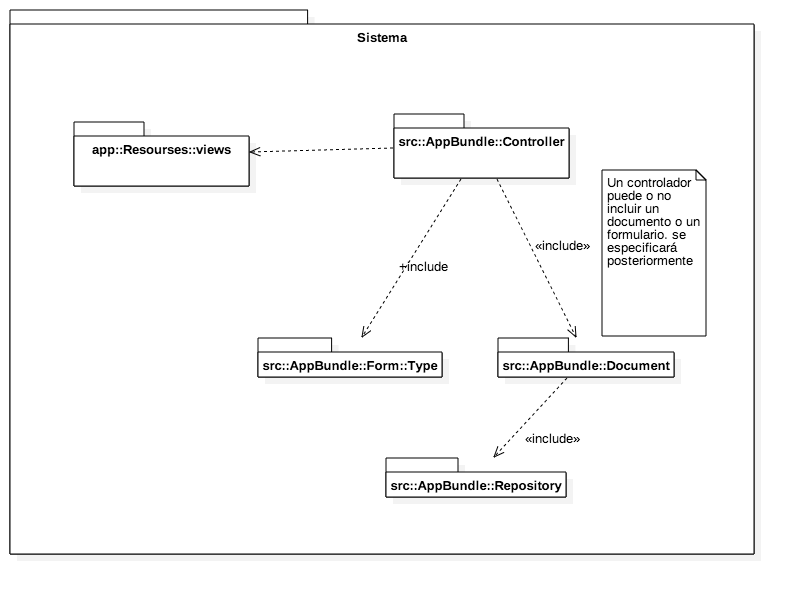
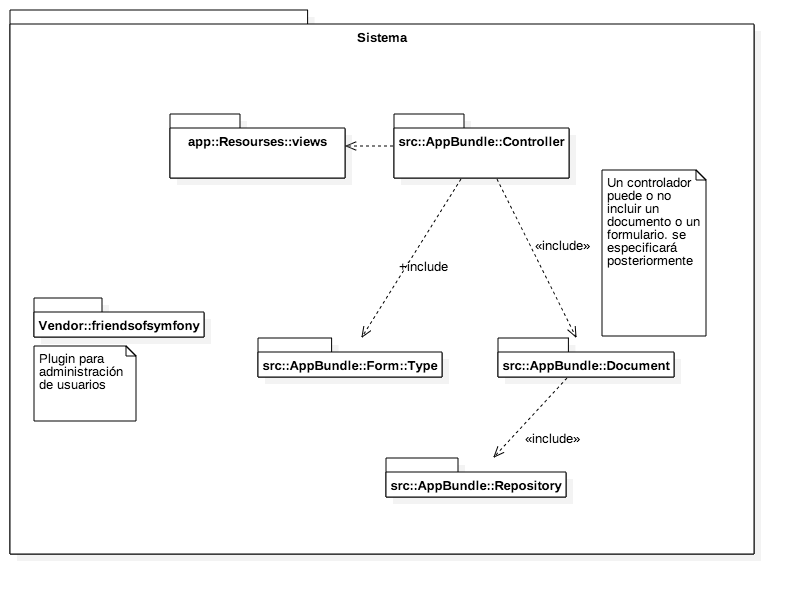
terminando estructura estatica

Changed region(s): [[0.0907, 0.1818, 0.4836, 0.3333], [0.0302, 0.4848, 0.272, 0.6667], [0.0605, 0.697, 0.1814, 0.7273]]

diff --git a/documento_disenio/ModeloEstatico/modeloEstatico.tex b/documento_disenio/ModeloEstatico/modeloEstatico.tex
@@ -11,68 +11,340 @@
 			\includegraphics[width=1\textwidth]{images/logico32}
 		\caption{Estructura Más especifica del sistema}
 	\end{figure}
+	
+	\begin{figure}[htbp!]
+		\centering
+			\includegraphics[width=1\textwidth]{images/logico33}
+		\caption{Estructura de las vistas}
+	\end{figure}
 	\newpage
-	\section{app::Resourses::views}	
+	\section{app::Resourses::views}
+		\subsection{Cajero}
+		\begin{itemize}
+			\item Regjstrar
+			\begin{itemize}
+				\item parts
+				\begin{itemize}
+					\item cajeroTabla.html.twig
+				\end{itemize}
+				\item registrarCajero.html.twig
+			\end{itemize}
+			\item Inventario
+			\begin{itemize}
+				\item modificarInventario.html.twig
+				\item consultarInventario.html.twig
+			\end{itemize}
+			\item Pagos
+			\begin{itemize}
+				\item pagoFarmacia.html.twig
+				\item pagoCita.html.twig
+			\end{itemize}
+		\end{itemize}
+		\subsection{Enfernera}
+		\begin{itemize}
+		\item Registrar
+		\begin{itemize}
+		\item registrarEnfermera.html.twig
+		\item registrarPaciente.html.twig
+		\item parts
+			\begin{itemize}
+				\item enfermeraTabla.html.twig
+			\end{itemize}
+		\end{itemize}
+		\item citas 
+			\begin{itemize}
+				\item agendarCita.html.twig
+				\item consultarCita.html.twig
+				\item cancerlarCita.html.twig
+			\end{itemize}
+		\end{itemize}
+		\subsection{Gerente}
+		\begin{itemize}
+			\item registrar
+			\begin{itemize}
+				\item parts 
+				\begin{itemize}
+				\item gerenteTabla.html.twig
+				\end{itemize}
+				\item registrarPaciente.html.twig
+			\end{itemize}
+			\item medicos 
+			\begin{itemize}
+			\item modifIcarHorarioMedico.html.twig
+			\item registrarMedico.html.twig
+			\item consultarMedicos.html.twig
+			\end{itemize}
+			\item actividad
+			\begin{itemize}
+				\item consultarCitasRealizadas.html.twig
+				\item consultarVentasRealizadas.html.twig
+			\end{itemize}
+		\end{itemize}
+		\subsection{Medico}
+		\begin{itemize}
+			\item registrar
+			\begin{itemize}
+			\item registrarMedico.html.twig
+			\item parts
+			\begin{itemize}
+				\item medicoTabla.html.twig
+			\end{itemize}
+			\end{itemize}
+			\item Expediente 
+			\begin{itemize}
+				\item crearExpediente.html.twig
+				\item consultarExpediente.html.twig
+			\end{itemize}
+			\item citas
+			\begin{itemize}
+				\item consultarCitas.html.twig
+				\item cancelarCitas.html.twig
+			\end{itemize}
+			\item consulta
+			\begin{itemize}
+				\item crearTratamiento.html.twig				
+			\end{itemize}
+		\end{itemize}
+		\subsection{Paciente}
+		\begin{itemize}
+			\item cita
+			\begin{itemize}
+				\item agendarCita.html.twig
+				\item cancelarCita.html.twig
+			\end{itemize}
+			\item expediente
+			\begin{itemize}
+				\item consultarExpediente.html.twig
+			\end{itemize}
+			\item registrar
+			\begin{itemize}
+			\item registrarPaciente.html.twig
+			\end{itemize}
+			
+		\end{itemize}
+		\subsection{Producto}	
+			\begin{itemize}
+			\item parts
+			\begin{itemize}
+				\item productosTabla.html.twig
+			\end{itemize}
+			\item registrarProducto.html.twig
+			\end{itemize}
+
+		\subsection{default}
+		\begin{itemize}
+			\item index.html.twig
+		\end{itemize}
+		\subsection{Login}
+		\begin{itemize}
+			\item login.html.twig
+		\end{itemize}
+		\subsection{Layout}
+		\begin{itemize}
+			\item menuLeft.html.twig
+			\item menuTop.html.twig
+		\end{itemize}
 	\section{src::AppBundle::Controller}
 	\subsection{Gerente}
+	\begin{itemize}
+		\item GerenteController.php
+	\end{itemize}
 	\subsection{Enfermera}
+	\begin{itemize}
+		\item EnfermeraController.php
+	\end{itemize}
 	\subsection{Paciente}
+	\begin{itemize}
+		\item PacienteController.php
+	\end{itemize}
 	\subsection{Medico}
+	\begin{itemize}
+		\item MedicoController.php
+	\end{itemize}
 	\subsection{Cajero}
+	\begin{itemize}
+		\item CajeroController.php
+	\end{itemize}
 	\subsection{Index}
+	\begin{itemize}
+		\item IndexController.php
+	\end{itemize}
 	\subsection{Login}
+	\begin{itemize}
+		\item LoginController.php
+	\end{itemize}
 	\subsection{Producto}
+	\begin{itemize}
+		\item ProductoController.php
+	\end{itemize}
 	\section{src::AppBundle::Controller::Api}
 		\subsection{Cajero}
+		\begin{itemize}
+		\item CajeroController.php
+		\end{itemize}
 		\subsection{Enfermera}
+		\begin{itemize}
+		\item EnfermeraController.php
+		\end{itemize}
 		\subsection{Gerente}
+		\begin{itemize}
+		\item GerenteController.php
+		\end{itemize}
 		\subsection{Medico}
+		\begin{itemize}
+		\item MedicoController.php
+		\end{itemize}
 		\subsection{Producto}
+		\begin{itemize}
+		\item ProductoController.php
+		\end{itemize}
 	\section{src::AppBundle::Form::Type}
 		\subsection{Paciente}
+		\begin{itemize}
+		\item CitaType.php
+		\item PacienteType.php
+		\end{itemize}
 		\subsection{Index}
 		\subsection{Cajero}
+		\begin{itemize}
+		\item CajeroRegistrationType.php
+		\item CajeroType.php
+		\end{itemize}
 		\subsection{Producto}
+		\begin{itemize}
+		\item ProductoType.php
+		\end{itemize}
 		\subsection{Login}
 		\subsection{Medico}
+		\begin{itemize}
+		\item MedicoRegistrationType.php
+		\item MedicoType.php
+		\end{itemize}
+		
 		\subsection{Gerente}
+		\begin{itemize}
+		\item GerenteRegistrationType.php
+		\item GerenteType.php
+		\end{itemize}
+		
 		\subsection{Enfermera}
+		\begin{itemize}
+		\item EnfermeraRegistrationType.php
+		\item EnfermeraType.php
+		\end{itemize}
+		
 		\subsection{Expediente}
 		\subsection{Consulta}
 		\subsection{Medicamento}
 		\subsection{Pago}
 		\subsection{User}
+		\begin{itemize}
+		\item RegistrationType.php
+		\end{itemize}
 	\newpage	
 	\section{src::AppBundle::Document}
 	
 	\subsection{Paciente}
-		\subsection{Index}
 		\subsection{Cajero}
+		\begin{itemize}
+			\item Cajero.php
+		\end{itemize}				
+		
 		\subsection{Producto}
-		\subsection{Login}
+		\begin{itemize}
+			\item Producto.php
+		\end{itemize}				
+		
 		\subsection{Medico}
+		\begin{itemize}
+			\item Medico.php
+		\end{itemize}				
+		
 		\subsection{Gerente}
+		\begin{itemize}
+			\item Gerente.php
+		\end{itemize}				
+		
 		\subsection{Enfermera}
+		\begin{itemize}
+			\item Enfermera.php
+		\end{itemize}				
+		
 		\subsection{Expediente}
+		\begin{itemize}
+			\item Alergia.php
+			\item AntecedenteFamiliar.php
+			\item AntecedentePersonal.php
+			\item Anticonceptivo.php
+			\item Cirugia.php
+			\item Embarazo.php
+			\item Enfermedad.php
+			\item Expediente.php
+			\item Mastografía.php
+			\item Papanicolaou.php
+		\end{itemize}				
+		
 		\subsection{Consulta}
+		\begin{itemize}
+			\item Consulta.php
+			\item Tratamiento.php
+			\item TratamientoMedicamento.php
+			\item TratamientoRecomendacion.php
+		\end{itemize}
 		\subsection{Medicamento}
+		\begin{itemize}
+			\item Activo.php
+			\item Medicamento.php
+		\end{itemize}
 		\subsection{Pago}
+		\begin{itemize}
+			\item Pago.php
+		\end{itemize}
 		\subsection{User}
+		\begin{itemize}
+			\item User.php
+		\end{itemize}
 		
 \section{src::AppBundle::Repository}
 	
 	\subsection{Paciente}
-		\subsection{Index}
 		\subsection{Cajero}
+		\begin{itemize}
+			\item CajeroRepository.php
+		\end{itemize}
 		\subsection{Producto}
-		\subsection{Login}
+		\begin{itemize}
+			\item ProductoRepository.php
+		\end{itemize}
 		\subsection{Medico}
+		\begin{itemize}
+			\item MedicoRepository.php
+		\end{itemize}
 		\subsection{Gerente}
+		\begin{itemize}
+			\item GerenteRepository.php
+		\end{itemize}
 		\subsection{Enfermera}
+		\begin{itemize}
+			\item EnfermeraRepository.php
+		\end{itemize}
 		\subsection{Expediente}
+		\begin{itemize}
+			\item algo
+		\end{itemize}
 		\subsection{Consulta}
+		
 		\subsection{Medicamento}
+		\begin{itemize}
+		\item MedicamentoRepository.php
+		\end{itemize}
 		\subsection{Pago}
-		\subsection{User}%--------------------------------------------------
+		\begin{itemize}
+			\item PagoRepository.php
+		\end{itemize}
+		\subsection{User}
+		\begin{itemize}
+			\item UserRepository.php
+		\end{itemize}%--------------------------------------------------
 
 
